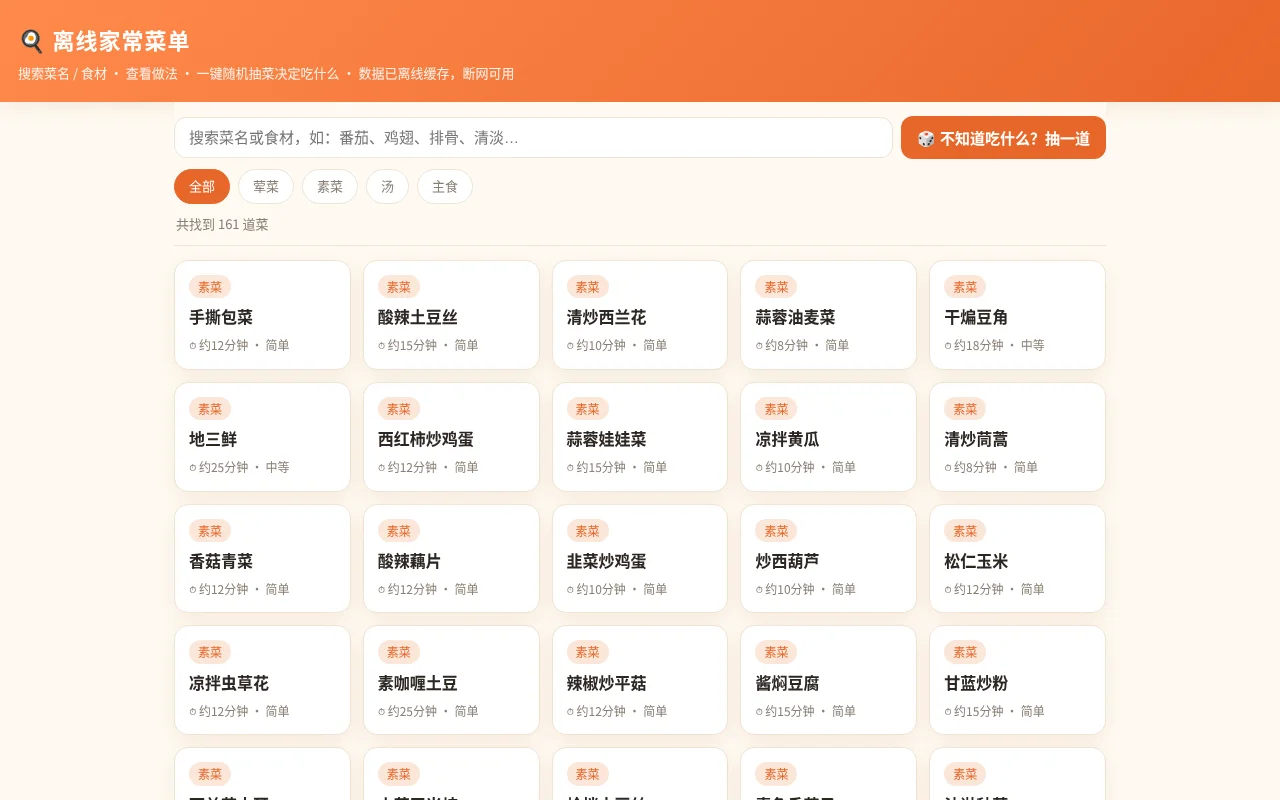
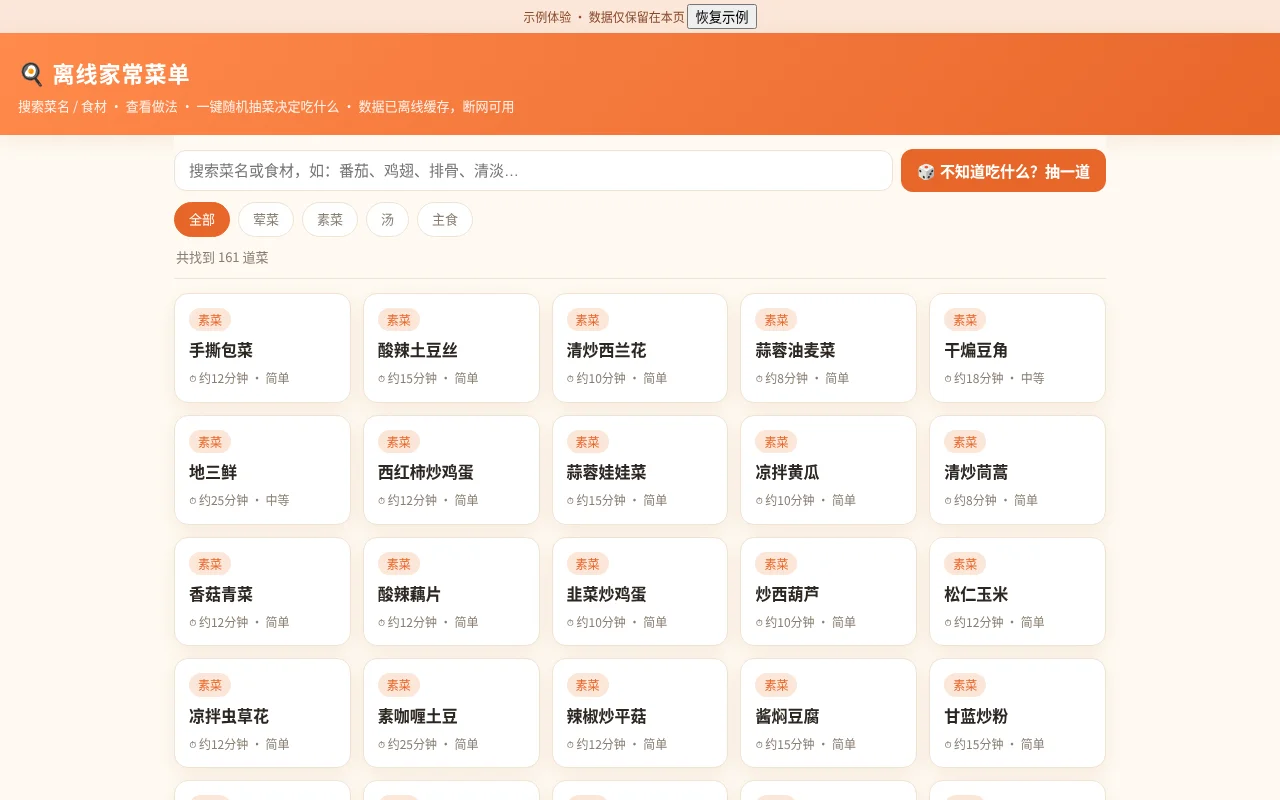
Add offline menu template

Changed region(s): [[0.0, 0.0, 1.0, 1.0]]

diff --git a/wb1024-c194-3abb067d/showcase/preview.html b/wb1024-c194-3abb067d/showcase/preview.html
@@ -61,7 +61,7 @@
   footer{text-align:center;color:var(--muted);font-size:12px;padding:20px}
 </style>
 </head>
-<body>
+<body><div style="text-align:center;background:#fbe6d8;color:#8a4b2d;font-size:12px;padding:4px">示例体验 · 数据仅保留在本页 <button id="reset-preview" type="button">恢复示例</button></div>
 <header>
   <h1>🍳 离线家常菜单</h1>
   <p>搜索菜名 / 食材 · 查看做法 · 一键随机抽菜决定吃什么 · 数据已离线缓存，断网可用</p>
@@ -69,21 +69,21 @@
 <div class="wrap">
   <div class="toolbar">
     <div class="search">
-      <input id="q" type="text" placeholder="搜索菜名或食材，如：番茄、鸡翅、排骨、清淡…" oninput="render()">
-      <button class="btn btn-primary" onclick="luckyStart()">🎲 不知道吃什么？抽一道</button>
+      <input id="q" type="text" placeholder="搜索菜名或食材，如：番茄、鸡翅、排骨、清淡…">
+      <button class="btn btn-primary">🎲 不知道吃什么？抽一道</button>
     </div>
     <div class="chips" id="chips"></div>
     <div class="count" id="count"></div>
   </div>
   <div class="grid" id="grid"></div>
 </div>
-<div class="overlay" id="detail" onclick="if(event.target===this)closeDetail()">
+<div class="overlay" id="detail">
   <div class="sheet">
-    <div class="sheet-head"><h2 id="d-name"></h2><button class="close" onclick="closeDetail()">×</button></div>
+    <div class="sheet-head"><h2 id="d-name"></h2><button class="close">×</button></div>
     <div class="sheet-body" id="d-body"></div>
   </div>
 </div>
-<div class="overlay" id="lucky" onclick="if(event.target===this)closeLucky()">
+<div class="overlay" id="lucky">
   <div class="sheet" style="max-width:420px">
     <div class="sheet-body lucky-box">
       <div class="spin" id="lucky-icon">🍽</div>
@@ -91,8 +91,8 @@
       <h2 id="lucky-name">？？？</h2>
       <div id="lucky-meta" style="color:var(--muted);font-size:13px"></div>
       <div class="lucky-actions">
-        <button class="btn btn-ghost" onclick="luckyAgain()">🔁 换一道</button>
-        <button class="btn btn-primary" id="lucky-view" style="display:none" onclick="luckyView()">查看做法</button>
+        <button class="btn btn-ghost">🔁 换一道</button>
+        <button class="btn btn-primary" id="lucky-view" style="display:none">查看做法</button>
       </div>
     </div>
   </div>
@@ -291,7 +291,7 @@ function render(){
     return;
   }
   grid.innerHTML = list.map(d=>`
-    <div class="dish" onclick="openDetail('${d.name.replace(/'/g,"\\'")}')">
+    <div class="dish">
       <span class="tag">${d.cat}</span>
       <span class="name">${d.name}</span>
       <span class="meta">⏱ ${d.time} · ${d.level}</span>
@@ -299,7 +299,7 @@ function render(){
 }
 function buildChips(){
   document.getElementById('chips').innerHTML = CATS.map(c=>
-    `<span class="chip ${c===curCat?'active':''}" onclick="setCat('${c}')">${c}</span>`).join("");
+    `<span class="chip ${c===curCat?'active':''}">${c}</span>`).join("");
 }
 function setCat(c){curCat=c;buildChips();render();}
 function openDetail(name){
@@ -354,6 +354,16 @@ function closeLucky(){document.getElementById('lucky').classList.remove('show');
 document.addEventListener('keydown',e=>{ if(e.key==='Escape'){closeDetail();closeLucky();} });
 buildChips();
 render();
-</script>
-</body>
-</html>
+
+
+
+document.getElementById('q').addEventListener('input',render);
+document.getElementById('chips').addEventListener('click',e=>{const chip=e.target.closest('.chip');if(chip)setCat(chip.textContent)});
+document.getElementById('grid').addEventListener('click',e=>{const dish=e.target.closest('.dish');if(dish)openDetail(dish.querySelector('.name').textContent)});
+document.querySelector('.btn-primary').addEventListener('click',luckyStart);
+document.querySelector('#detail .close').addEventListener('click',closeDetail);
+document.getElementById('detail').addEventListener('click',e=>{if(e.target.id==='detail')closeDetail()});
+document.getElementById('lucky').addEventListener('click',e=>{if(e.target.id==='lucky')closeLucky()});
+document.querySelector('#lucky .btn-ghost').addEventListener('click',luckyAgain);
+document.getElementById('lucky-view').addEventListener('click',luckyView);
+document.getElementById("reset-preview").addEventListener("click",()=>{document.getElementById("q").value="";curCat="全部";clearInterval(spinTimer);closeDetail();closeLucky();buildChips();render()});</script></body></html>
